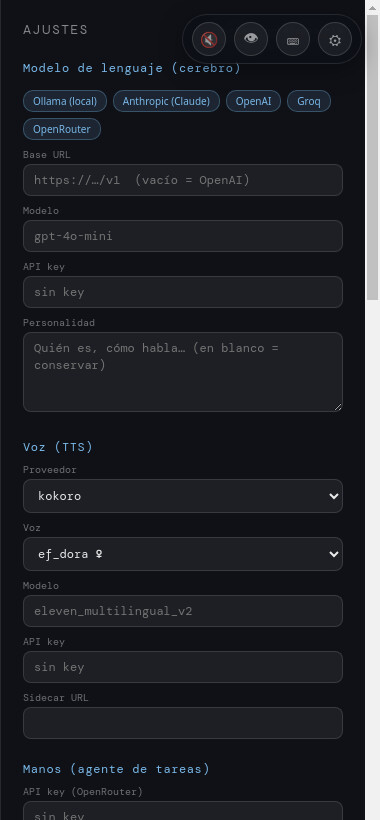
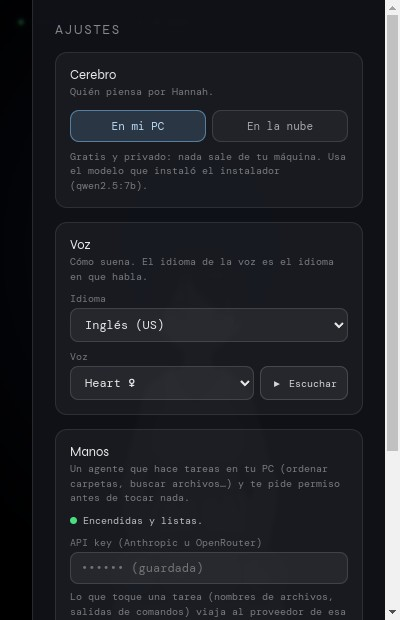
site: paleta neon, misma estructura
Fondo casi negro, texto claro, un solo acento (verde señal, como un cursor de
terminal) que brilla solo donde señala algo: el CTA, la barra viva, la VRAM
libre. Sin degradados ni glass. La captura de ajustes pasa a ser la del panel
nuevo (tres tarjetas).

diff --git a/styles.css b/styles.css
@@ -3,24 +3,30 @@
    a sticky index beside data-backed sections, a providers section, a plain install command,
    a measured requirements block). Everything shown is a real capture or a measured number.
 
-   Palette — ours, derived from the app rather than from any default:
-     paper  #f4f1ea  warm ivory page ground (the dress, not a lab white)
-     ink    #0f1117  the scene's navy pulled to a near-black surface (nav, buttons, footer)
-     line   ink at 12% / 22%
-     moss   #5f8f2e  her eyes — the ONE accent, only on data bars and live states
-   Dark captures sit on the ivory with a hairline border, like prints on paper.
-   Type: Fraunces for headings (a serif with a voice), Inter for everything else. */
+   Palette — neon, kept minimal:
+     void   #090a0f  the scene's navy pulled to near-black; the page ground
+     panel  #10121a  one step up, for the providers band, code and the footer
+     fog    white at 6% / 12% / 22% for surfaces and hairlines
+     text   #eceef3 / #b1b5c2 / #7d8290
+     neon   #4dff9d  signal green, the color of a terminal cursor — the ONE accent. It glows only where
+                     it points at something (the CTA, the live bar, the free VRAM); text
+                     never glows, it has to stay readable.
+   No gradients, no glass, no second hue. The dark captures sit on the void with a hairline,
+   so the app and the page read as one surface.
+   Type: Fraunces for headings, Inter for everything else. */
 
 :root {
-  --paper: #f4f1ea;
-  --paper-2: #ece8df;
-  --ink: #0f1117;
-  --ink-2: #3e4048;
-  --ink-3: #6f7178;
-  --line: rgba(15, 17, 23, 0.12);
-  --line-strong: rgba(15, 17, 23, 0.22);
-  --moss: #5f8f2e;
-  --moss-soft: rgba(95, 143, 46, 0.14);
+  --void: #090a0f;
+  --panel: #10121a;
+  --fog-1: rgba(255, 255, 255, 0.06);
+  --fog-2: rgba(255, 255, 255, 0.12);
+  --fog-3: rgba(255, 255, 255, 0.22);
+  --text: #eceef3;
+  --text-2: #b1b5c2;
+  --text-3: #7d8290;
+  --neon: #4dff9d;
+  --neon-dim: rgba(77, 255, 157, 0.16);
+  --neon-glow: 0 0 18px rgba(77, 255, 157, 0.35);
   --serif: "Fraunces", Georgia, "Times New Roman", serif;
   --sans: "Inter", -apple-system, BlinkMacSystemFont, "Segoe UI", Roboto, sans-serif;
   --mono: ui-monospace, "SF Mono", "JetBrains Mono", Menlo, Consolas, monospace;
@@ -32,18 +38,19 @@
 html { scroll-behavior: smooth; }
 @media (prefers-reduced-motion: reduce) { html { scroll-behavior: auto; } }
 body {
-  background: var(--paper);
-  color: var(--ink);
+  background: var(--void);
+  color: var(--text);
   font-family: var(--sans);
   font-size: 16px;
   line-height: 1.55;
   -webkit-font-smoothing: antialiased;
 }
+::selection { background: var(--neon); color: var(--void); }
 a { color: inherit; }
 img { display: block; max-width: 100%; height: auto; }
-code { font-family: var(--mono); font-size: 0.9em; background: var(--paper-2); padding: 1px 5px; border-radius: 4px; }
+code { font-family: var(--mono); font-size: 0.9em; background: var(--fog-1); padding: 1px 5px; border-radius: 4px; color: var(--text); }
 pre code { background: none; padding: 0; font-size: 13.5px; }
-:focus-visible { outline: 2px solid var(--moss); outline-offset: 3px; }
+:focus-visible { outline: 2px solid var(--neon); outline-offset: 3px; }
 
 .wrap { max-width: var(--wrap); margin: 0 auto; padding-left: 24px; padding-right: 24px; }
 
@@ -51,31 +58,31 @@ h1, h2, h3 { font-family: var(--serif); font-weight: 500; letter-spacing: -0.012
 h2 { font-size: clamp(28px, 3vw, 36px); line-height: 1.15; margin-bottom: 14px; }
 h3 { font-size: 20px; line-height: 1.25; margin-bottom: 12px; }
 p { max-width: 64ch; }
-.sub { font-size: 13px; font-weight: 500; letter-spacing: 0.02em; color: var(--ink-3); margin-bottom: 10px; }
-.src { font-size: 13.5px; color: var(--ink-3); margin-top: 14px; }
+.sub { font-size: 13px; font-weight: 500; letter-spacing: 0.02em; color: var(--text-3); margin-bottom: 10px; }
+.src { font-size: 13.5px; color: var(--text-3); margin-top: 14px; }
 
 /* ── buttons & links ─────────────────────────────────────────────────────── */
 .btn {
   display: inline-flex; align-items: center; justify-content: center;
   padding: 9px 16px; border-radius: 999px;
-  font-weight: 500; font-size: 14.5px; text-decoration: none;
-  border: 1px solid var(--ink); transition: background 0.15s, color 0.15s;
+  font-weight: 600; font-size: 14.5px; text-decoration: none;
+  border: 1px solid var(--neon); transition: background 0.15s, color 0.15s, box-shadow 0.15s;
 }
-.btn-dark { background: var(--ink); color: var(--paper); }
-.btn-dark:hover { background: #1c1f28; }
+.btn-dark { background: var(--neon); color: var(--void); box-shadow: var(--neon-glow); }
+.btn-dark:hover { background: #6dffb0; box-shadow: 0 0 26px rgba(77, 255, 157, 0.5); }
 .btn-lg { padding: 13px 22px; font-size: 16px; }
-.link-arrow { font-weight: 500; text-decoration: none; color: var(--ink-2); }
+.link-arrow { font-weight: 500; text-decoration: none; color: var(--text-2); }
 .link-arrow::after { content: " \2192"; }
-.link-arrow:hover { color: var(--ink); }
+.link-arrow:hover { color: var(--neon); }
 
 /* ── nav ─────────────────────────────────────────────────────────────────── */
-.nav { position: sticky; top: 0; z-index: 10; background: rgba(244, 241, 234, 0.92); border-bottom: 1px solid var(--line); }
+.nav { position: sticky; top: 0; z-index: 10; background: rgba(9, 10, 15, 0.88); backdrop-filter: blur(6px); border-bottom: 1px solid var(--fog-2); }
 .nav-inner { display: flex; align-items: center; gap: 32px; height: 60px; }
 .brand { display: inline-flex; align-items: center; gap: 9px; font-family: var(--serif); font-size: 19px; font-weight: 500; text-decoration: none; }
-.brand-mark { display: inline-grid; place-items: center; width: 26px; height: 26px; border-radius: 7px; background: var(--ink); color: var(--paper); font-size: 15px; }
+.brand-mark { display: inline-grid; place-items: center; width: 26px; height: 26px; border-radius: 7px; background: var(--neon); color: var(--void); font-size: 15px; box-shadow: var(--neon-glow); }
 .nav-links { display: flex; gap: 22px; margin-right: auto; }
-.nav-links a { font-size: 14.5px; color: var(--ink-2); text-decoration: none; }
-.nav-links a:hover { color: var(--ink); }
+.nav-links a { font-size: 14.5px; color: var(--text-2); text-decoration: none; }
+.nav-links a:hover { color: var(--text); }
 
 /* ── hero ────────────────────────────────────────────────────────────────── */
 .hero {
@@ -84,55 +91,52 @@ p { max-width: 64ch; }
   padding-top: 72px; padding-bottom: 56px;
 }
 .hero h1 { font-size: clamp(36px, 4.4vw, 54px); line-height: 1.05; margin-bottom: 18px; }
-.lede { font-size: clamp(16px, 1.25vw, 18px); color: var(--ink-2); max-width: 46ch; }
+.lede { font-size: clamp(16px, 1.25vw, 18px); color: var(--text-2); max-width: 46ch; }
 .hero-actions { display: flex; align-items: center; gap: 22px; margin-top: 26px; }
-.hero-fine { margin-top: 18px; font-size: 13px; color: var(--ink-3); }
+.hero-fine { margin-top: 18px; font-size: 13px; color: var(--text-3); }
 .hero-shot { margin: 0; }
-.hero-shot img {
-  border-radius: 12px; border: 1px solid var(--line-strong);
-  box-shadow: 0 24px 60px -30px rgba(15, 17, 23, 0.45);
-}
+.hero-shot img { border-radius: 12px; border: 1px solid var(--fog-3); }
 
 /* ── strip ───────────────────────────────────────────────────────────────── */
-.strip { border-top: 1px solid var(--line); border-bottom: 1px solid var(--line); padding: 22px 0; }
-.strip-label { text-align: center; font-size: 12.5px; color: var(--ink-3); margin: 0 auto 12px; }
+.strip { border-top: 1px solid var(--fog-2); border-bottom: 1px solid var(--fog-2); padding: 22px 0; }
+.strip-label { text-align: center; font-size: 12.5px; color: var(--text-3); margin: 0 auto 12px; }
 .strip-list { list-style: none; display: flex; flex-wrap: wrap; justify-content: center; gap: 10px 34px; }
-.strip-list li { font-family: var(--serif); font-size: 17px; color: var(--ink-2); }
+.strip-list li { font-family: var(--serif); font-size: 17px; color: var(--text-2); }
 
 /* ── capabilities: sticky index + sections ───────────────────────────────── */
 .caps { display: grid; grid-template-columns: 200px minmax(0, 1fr); gap: 56px; padding-top: 72px; padding-bottom: 24px; }
 .caps-index { position: sticky; top: 84px; align-self: start; display: flex; flex-direction: column; }
-.caps-index a { padding: 9px 0; border-top: 1px solid var(--line); font-size: 14px; color: var(--ink-3); text-decoration: none; }
-.caps-index a:last-child { border-bottom: 1px solid var(--line); }
-.caps-index a:hover, .caps-index a.is-active { color: var(--ink); }
-.caps-index a.is-active { border-top-color: var(--ink); }
-.cap { padding-bottom: 72px; margin-bottom: 72px; border-bottom: 1px solid var(--line); scroll-margin-top: 84px; }
+.caps-index a { padding: 9px 0; border-top: 1px solid var(--fog-2); font-size: 14px; color: var(--text-3); text-decoration: none; }
+.caps-index a:last-child { border-bottom: 1px solid var(--fog-2); }
+.caps-index a:hover, .caps-index a.is-active { color: var(--text); }
+.caps-index a.is-active { border-top-color: var(--neon); }
+.cap { padding-bottom: 72px; margin-bottom: 72px; border-bottom: 1px solid var(--fog-2); scroll-margin-top: 84px; }
 .cap:last-child { border-bottom: 0; margin-bottom: 0; }
-.cap > p { color: var(--ink-2); }
+.cap > p { color: var(--text-2); }
 
 /* data bars (latency) */
 .datagrid { margin-top: 26px; display: grid; gap: 10px; max-width: 640px; }
 .datarow { display: grid; grid-template-columns: 170px 1fr 64px; align-items: center; gap: 14px; font-size: 14px; }
-.dl { color: var(--ink-2); }
-.bar { height: 10px; background: var(--paper-2); border-radius: 2px; overflow: hidden; }
-.bar i { display: block; height: 100%; width: var(--w); background: var(--ink); border-radius: 2px; }
-.datarow:first-child .bar i { background: var(--moss); }
+.dl { color: var(--text-2); }
+.bar { height: 10px; background: var(--fog-1); border-radius: 2px; overflow: hidden; }
+.bar i { display: block; height: 100%; width: var(--w); background: var(--text-2); border-radius: 2px; }
+.datarow:first-child .bar i { background: var(--neon); box-shadow: var(--neon-glow); }
 .dv { text-align: right; font-variant-numeric: tabular-nums; font-weight: 500; }
 
 /* facts (definition lists) */
 .facts { margin-top: 22px; display: grid; gap: 10px; }
 .facts div { display: grid; grid-template-columns: 96px 1fr; gap: 14px; font-size: 14.5px; }
-.facts dt { color: var(--ink-3); }
-.facts dd { color: var(--ink-2); }
-.facts dt code { background: none; padding: 0; color: var(--ink); }
+.facts dt { color: var(--text-3); }
+.facts dd { color: var(--text-2); }
+.facts dt code { background: none; padding: 0; color: var(--text); }
 .facts-row { grid-template-columns: repeat(3, 1fr); gap: 24px; max-width: none; }
 .facts-row div { grid-template-columns: 1fr; gap: 4px; }
 
 /* captures */
 .shots-2 { margin-top: 26px; display: grid; grid-template-columns: minmax(0, 1fr) minmax(0, 1.4fr); gap: 18px; align-items: end; }
 .shots-2 figure, .wide-shot, .widget-shot, .settings-shot { margin: 0; }
-.shots-2 img, .wide-shot img, .widget-shot img, .settings-shot img { border-radius: var(--r); border: 1px solid var(--line-strong); }
-figcaption { margin-top: 8px; font-size: 13px; color: var(--ink-3); }
+.shots-2 img, .wide-shot img, .widget-shot img, .settings-shot img { border-radius: var(--r); border: 1px solid var(--fog-3); }
+figcaption { margin-top: 8px; font-size: 13px; color: var(--text-3); }
 .wide-shot { margin-top: 26px; max-width: 760px; }
 .desktop-row { margin-top: 26px; display: grid; grid-template-columns: 240px minmax(0, 1fr); gap: 36px; align-items: start; }
 .widget-shot img { width: 240px; border-radius: 12px; }
@@ -140,34 +144,34 @@ figcaption { margin-top: 8px; font-size: 13px; color: var(--ink-3); }
 /* tiles (desktops, providers) */
 .grid-tiles { list-style: none; display: grid; grid-template-columns: repeat(3, 1fr); gap: 10px; }
 .grid-tiles li {
-  padding: 11px 14px; border: 1px solid var(--line); border-radius: var(--r);
-  font-size: 14px; font-weight: 500; background: rgba(255, 255, 255, 0.45);
+  padding: 11px 14px; border: 1px solid var(--fog-2); border-radius: var(--r);
+  font-size: 14px; font-weight: 500; background: var(--fog-1);
   display: flex; justify-content: space-between; align-items: baseline; gap: 8px;
 }
-.grid-tiles li span { font-size: 11.5px; font-weight: 500; color: var(--moss); }
+.grid-tiles li span { font-size: 11.5px; font-weight: 600; color: var(--neon); }
 
 /* two columns + transcript */
 .two-col { margin-top: 30px; display: grid; grid-template-columns: minmax(0, 1fr) minmax(0, 1fr); gap: 40px; align-items: start; }
-.transcript { border-left: 2px solid var(--line-strong); padding-left: 18px; font-size: 14.5px; color: var(--ink-2); }
+.transcript { border-left: 2px solid var(--fog-3); padding-left: 18px; font-size: 14.5px; color: var(--text-2); }
 .transcript p { margin: 0 0 10px; max-width: none; display: grid; grid-template-columns: 64px 1fr; gap: 10px; }
 .transcript p:last-child { margin: 0; }
-.who { font-family: var(--mono); font-size: 11px; letter-spacing: 0.06em; text-transform: uppercase; color: var(--ink-3); padding-top: 3px; }
-.who.her { color: var(--moss); }
+.who { font-family: var(--mono); font-size: 11px; letter-spacing: 0.06em; text-transform: uppercase; color: var(--text-3); padding-top: 3px; }
+.who.her { color: var(--neon); }
 
 /* checks */
 .checks { list-style: none; display: grid; gap: 14px; max-width: 70ch; }
-.checks li { padding-left: 22px; position: relative; color: var(--ink-2); font-size: 15px; }
-.checks li::before { content: ""; position: absolute; left: 0; top: 8px; width: 9px; height: 9px; border-radius: 50%; background: var(--moss); }
-.checks strong { display: block; color: var(--ink); font-weight: 600; margin-bottom: 2px; }
+.checks li { padding-left: 22px; position: relative; color: var(--text-2); font-size: 15px; }
+.checks li::before { content: ""; position: absolute; left: 0; top: 8px; width: 9px; height: 9px; border-radius: 50%; background: var(--neon); box-shadow: 0 0 10px rgba(77, 255, 157, 0.6); }
+.checks strong { display: block; color: var(--text); font-weight: 600; margin-bottom: 2px; }
 
 /* ── setup (providers) ───────────────────────────────────────────────────── */
-.setup { background: var(--paper-2); border-top: 1px solid var(--line); border-bottom: 1px solid var(--line); padding: 72px 0; }
-.setup-inner { display: grid; grid-template-columns: minmax(0, 1.2fr) 380px; gap: 56px; align-items: start; }
-.setup-copy p { color: var(--ink-2); margin-bottom: 22px; }
-.setup .grid-tiles li { background: var(--paper); }
+.setup { background: var(--panel); border-top: 1px solid var(--fog-2); border-bottom: 1px solid var(--fog-2); padding: 72px 0; }
+.setup-inner { display: grid; grid-template-columns: minmax(0, 1.2fr) 400px; gap: 56px; align-items: start; }
+.setup-copy p { color: var(--text-2); margin-bottom: 22px; }
+.setup .grid-tiles li { background: var(--void); }
 .settings-shot { position: relative; max-height: 560px; overflow: hidden; border-radius: var(--r); }
-.settings-shot img { width: 100%; box-shadow: 0 24px 60px -30px rgba(15, 17, 23, 0.45); }
-.settings-shot::after { content: ""; position: absolute; left: 0; right: 0; bottom: 0; height: 120px; background: linear-gradient(to bottom, rgba(236, 232, 223, 0), var(--paper-2)); }
+.settings-shot img { width: 100%; }
+.settings-shot::after { content: ""; position: absolute; left: 0; right: 0; bottom: 0; height: 120px; background: linear-gradient(to bottom, rgba(16, 18, 26, 0), var(--panel)); }
 
 /* ── install ─────────────────────────────────────────────────────────────── */
 .install { padding: 80px 0; }
@@ -176,52 +180,63 @@ figcaption { margin-top: 8px; font-size: 13px; color: var(--ink-3); }
 .install .lede { margin-bottom: 26px; max-width: 62ch; }
 .cmd {
   display: flex; align-items: stretch;
-  background: var(--ink); color: var(--paper);
-  border-radius: 10px; overflow: hidden;
+  background: #000; color: var(--text);
+  border: 1px solid var(--fog-3); border-radius: 10px; overflow: hidden;
 }
-.cmd-prompt { padding: 16px 0 16px 18px; font-family: var(--mono); color: rgba(244, 241, 234, 0.5); }
+.cmd-prompt { padding: 16px 0 16px 18px; font-family: var(--mono); color: var(--neon); }
 .cmd code { flex: 1; padding: 16px 14px; background: none; color: inherit; font-size: 15px; white-space: nowrap; overflow-x: auto; border-radius: 0; }
 .copy {
-  padding: 0 18px; border: 0; border-left: 1px solid rgba(244, 241, 234, 0.15);
-  background: transparent; color: rgba(244, 241, 234, 0.8);
+  padding: 0 18px; border: 0; border-left: 1px solid var(--fog-2);
+  background: transparent; color: var(--text-2);
   font: inherit; font-size: 14px; font-weight: 500; cursor: pointer;
 }
-.copy:hover { background: rgba(244, 241, 234, 0.08); color: var(--paper); }
-.copy.done { color: #b9d47c; }
+.copy:hover { background: var(--fog-1); color: var(--text); }
+.copy.done { color: var(--neon); }
 .install .facts { margin-top: 28px; }
 .source { margin-top: 28px; }
-.source summary { cursor: pointer; font-weight: 500; color: var(--ink-2); }
-.source summary:hover { color: var(--ink); }
-.source pre { margin-top: 12px; padding: 14px 16px; background: var(--paper-2); border: 1px solid var(--line); border-radius: var(--r); overflow-x: auto; line-height: 1.6; }
+.source summary { cursor: pointer; font-weight: 500; color: var(--text-2); }
+.source summary:hover { color: var(--text); }
+.source pre { margin-top: 12px; padding: 14px 16px; background: var(--panel); border: 1px solid var(--fog-2); border-radius: var(--r); overflow-x: auto; line-height: 1.6; }
 
 /* ── requirements: measured VRAM + table ─────────────────────────────────── */
-.reqs { padding-top: 72px; padding-bottom: 88px; border-top: 1px solid var(--line); }
+.reqs { padding-top: 72px; padding-bottom: 88px; border-top: 1px solid var(--fog-2); }
 .reqs-grid { display: grid; grid-template-columns: minmax(0, 1fr) minmax(0, 1.1fr); gap: 56px; align-items: start; margin-top: 8px; }
-.stack { display: flex; height: 40px; border-radius: 6px; overflow: hidden; border: 1px solid var(--line-strong); background: var(--paper-2); }
-.seg { width: var(--w); background: var(--ink); color: var(--paper); font-size: 11.5px; font-weight: 500; display: grid; place-items: center; white-space: nowrap; overflow: hidden; border-right: 1px solid var(--paper); }
-.seg:nth-child(2) { background: #2a2d38; }
-.seg:nth-child(3) { background: #3e4048; }
-.seg:nth-child(4) { background: #565962; }
-.seg:nth-child(5) { background: #6f7178; }
-.seg-free { background: var(--moss-soft); color: var(--moss); border-right: 0; }
-.vram-total { margin-top: 12px; font-size: 14px; color: var(--ink-2); }
+.stack { display: flex; height: 40px; border-radius: 6px; overflow: hidden; border: 1px solid var(--fog-3); background: var(--fog-1); }
+.seg { width: var(--w); background: #e2e5ec; color: var(--void); font-size: 11.5px; font-weight: 600; display: grid; place-items: center; white-space: nowrap; overflow: hidden; border-right: 1px solid var(--void); }
+.seg:nth-child(2) { background: #b4b8c4; }
+.seg:nth-child(3) { background: #8a8e9c; }
+.seg:nth-child(4) { background: #666a78; }
+.seg:nth-child(5) { background: #4a4e5a; }
+.seg-free { background: var(--neon-dim); color: var(--neon); border-right: 0; box-shadow: inset 0 0 18px rgba(77, 255, 157, 0.18); }
+.vram-total { margin-top: 12px; font-size: 14px; color: var(--text-2); }
 .req { width: 100%; border-collapse: collapse; }
-.req th, .req td { padding: 12px 0; border-top: 1px solid var(--line); text-align: left; vertical-align: top; font-size: 14.5px; }
-.req tr:last-child th, .req tr:last-child td { border-bottom: 1px solid var(--line); }
-.req th { width: 92px; color: var(--ink-3); font-weight: 500; }
-.req td { color: var(--ink-2); }
+.req th, .req td { padding: 12px 0; border-top: 1px solid var(--fog-2); text-align: left; vertical-align: top; font-size: 14.5px; }
+.req tr:last-child th, .req tr:last-child td { border-bottom: 1px solid var(--fog-2); }
+.req th { width: 92px; color: var(--text-3); font-weight: 500; }
+.req td { color: var(--text-2); }
+
+/* VRAM legend — the narrow segments can't hold a label, so the labels live here.
+   Swatch colors come from the .seg scale above via data-seg. */
+.legend { list-style: none; display: flex; flex-wrap: wrap; gap: 6px 16px; margin-top: 10px; font-size: 13px; color: var(--text-2); }
+.legend li { display: inline-flex; align-items: center; gap: 6px; }
+.legend i { width: 10px; height: 10px; border-radius: 2px; background: #e2e5ec; }
+.legend li:nth-child(2) i { background: #b4b8c4; }
+.legend li:nth-child(3) i { background: #8a8e9c; }
+.legend li:nth-child(4) i { background: #666a78; }
+.legend li:nth-child(5) i { background: #4a4e5a; }
+.legend i.free { background: var(--neon-dim); border: 1px solid var(--neon); }
 
 /* ── footer ──────────────────────────────────────────────────────────────── */
-.footer { background: var(--ink); color: var(--paper); padding: 56px 0 28px; }
+.footer { background: var(--panel); color: var(--text); border-top: 1px solid var(--fog-2); padding: 56px 0 28px; }
 .footer-inner { display: flex; justify-content: space-between; gap: 40px; flex-wrap: wrap; }
 .footer-brand { font-family: var(--serif); font-size: 22px; }
-.footer-tag { margin-top: 6px; font-size: 14px; color: rgba(244, 241, 234, 0.6); }
+.footer-tag { margin-top: 6px; font-size: 14px; color: var(--text-3); }
 .footer-cols { display: flex; gap: 56px; }
 .footer-cols div { display: flex; flex-direction: column; gap: 8px; }
-.footer-h { font-size: 12px; letter-spacing: 0.06em; text-transform: uppercase; color: rgba(244, 241, 234, 0.5); margin-bottom: 4px; }
-.footer-cols a { font-size: 14px; color: rgba(244, 241, 234, 0.85); text-decoration: none; }
-.footer-cols a:hover { color: var(--paper); text-decoration: underline; }
-.footer-fine { margin-top: 40px; padding-top: 18px; border-top: 1px solid rgba(244, 241, 234, 0.12); font-size: 13px; color: rgba(244, 241, 234, 0.5); }
+.footer-h { font-size: 12px; letter-spacing: 0.06em; text-transform: uppercase; color: var(--text-3); margin-bottom: 4px; }
+.footer-cols a { font-size: 14px; color: var(--text-2); text-decoration: none; }
+.footer-cols a:hover { color: var(--neon); }
+.footer-fine { margin-top: 40px; padding-top: 18px; border-top: 1px solid var(--fog-2); font-size: 13px; color: var(--text-3); }
 
 /* ── responsive ──────────────────────────────────────────────────────────── */
 @media (max-width: 960px) {
@@ -243,9 +258,3 @@ figcaption { margin-top: 8px; font-size: 13px; color: var(--ink-3); }
   .datarow { grid-template-columns: 120px 1fr 56px; }
   .footer-cols { gap: 32px; }
 }
-
-/* VRAM legend — the narrow segments can't hold a label, so the labels live here */
-.legend { list-style: none; display: flex; flex-wrap: wrap; gap: 6px 16px; margin-top: 10px; font-size: 13px; color: var(--ink-2); }
-.legend li { display: inline-flex; align-items: center; gap: 6px; }
-.legend i { width: 10px; height: 10px; border-radius: 2px; }
-.legend i.free { background: var(--moss-soft); border: 1px solid var(--moss); }

diff --git a/index.html b/index.html
@@ -4,7 +4,7 @@
   <meta charset="utf-8">
   <meta name="viewport" content="width=device-width, initial-scale=1">
   <meta name="color-scheme" content="light">
-  <meta name="theme-color" content="#f4f1ea">
+  <meta name="theme-color" content="#090a0f">
   <title>Hannah — a local AI companion for your desktop</title>
   <meta name="description" content="Hannah is a 3D companion that listens, speaks in her own voice and gestures while she talks — running on your own GPU. Voice, vision, memory, a real terminal and an agent for multi-step tasks. One command to install.">
   <meta property="og:title" content="Hannah — a local AI companion for your desktop">
@@ -159,7 +159,7 @@
         </ul>
         <p class="src">Teach her new skills with a markdown file: a description, one action, and the phrases that trigger it. The model picks the skill; the backend runs the command.</p>
       </div>
-      <figure class="settings-shot"><img src="assets/settings.jpg" width="380" height="820" alt="The settings panel: language model provider chips, voice, and the agent's API key field" loading="lazy"></figure>
+      <figure class="settings-shot"><img src="assets/settings.jpg" width="400" height="620" alt="The settings panel: three cards — brain on my PC or in the cloud, voice with a listen button, hands — with the technical options folded away" loading="lazy"></figure>
     </div>
   </section>
 
@@ -205,7 +205,7 @@ cat SETUP.md</code></pre>
           <div class="seg" style="--w:6%"></div>
           <div class="seg seg-free" style="--w:29%"><span>free</span></div>
         </div>
-        <ul class="legend"><li><i style="background:#0f1117"></i>Brain 4.8 GB</li><li><i style="background:#2a2d38"></i>Vision 2.4</li><li><i style="background:#3e4048"></i>Motion 1.2</li><li><i style="background:#565962"></i>Voice 0.9</li><li><i style="background:#6f7178"></i>Listening 0.8</li><li><i class="free"></i>Free 1.9</li></ul>
+        <ul class="legend"><li><i></i>Brain 4.8 GB</li><li><i></i>Vision 2.4</li><li><i></i>Motion 1.2</li><li><i></i>Voice 0.9</li><li><i></i>Listening 0.8</li><li><i class="free"></i>Free 1.9</li></ul>
         <p class="vram-total"><strong>14.1 GB</strong> of 16 GB in use, measured on an RTX 5070 Ti with every model resident.</p>
       </div>
       <table class="req">
